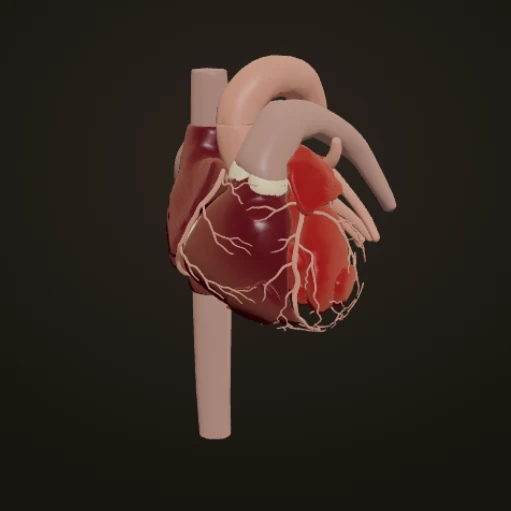
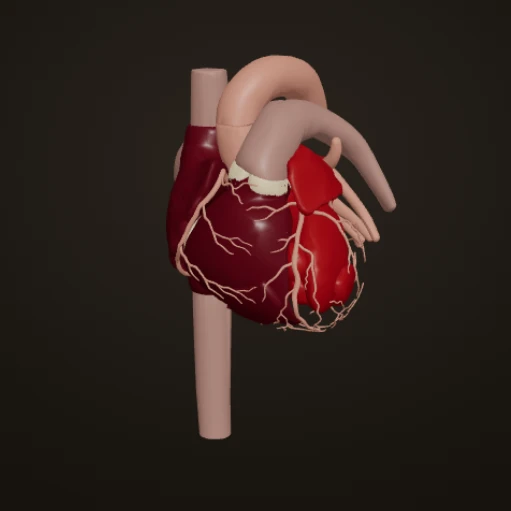
MRB-218: the surface is MeshStandardMaterial — the sheen lobe was measured out
The appearance work first shipped as MeshPhysicalMaterial with three's sheen
lobe, on the reasoning that sheen is the proper approximation of the soft waxy
rim wet tissue has. 3d_render_check.py disagreed, reproducibly across two runs:

               Tier A median   Tier B/C median
  before           100.0ms          33.4ms
  physical+sheen   116.6ms          50.0ms
  physical, sheen gated off by tier  49.3ms   <- the gate fixed nothing
  standard         100.1ms          35.3ms    <- restored

Two things came out of that. The cost was MeshPhysicalMaterial ITSELF, not the
lobe — three compiles the `physical` shader whether or not sheen is switched
on. And gating the lobe by tier, which I did first and have now reverted, left
a TierRig flag whose comment claimed a saving it did not make. A flag that lies
about why it exists is worse than no flag, so it is gone.

Roughness alone turned out to read WETTER than the lobe did, not drier: the
highlight is tighter and the colour more saturated. There was nothing to trade.

These are SwiftShader numbers on a CPU and are not evidence about a real
device — 3d_render_check.py says so at length. Before/after on one machine is
exactly what they are for, and the before/after was unambiguous.

Gate 16 now asserts the finish ordering (blood wetter than vessel wetter than
valve), that oxygenation never reaches the finish, and — as a shape assertion —
that Finish carries only roughness and metalness, so reintroducing sheen has to
[…]

Changed region(s): [[0.3229, 0.2348, 0.7045, 0.6458], [0.499, 0.2055, 0.5284, 0.2348]]

diff --git a/3d-studio/tests/gates/appearance.test.ts b/3d-studio/tests/gates/appearance.test.ts
@@ -35,6 +35,7 @@ import {
   type PaletteId,
 } from '../../src/renderer/mesh/appearance'
 import { capColour } from '../../src/renderer/mesh/cap'
+import { TIER_RIGS } from '../../src/renderer/mesh/tiers'
 import { indexHotspots } from '../../src/renderer/mesh/cutmaterial'
 import { specimens } from '../../src/studio/content'
 import { hotspotVisual, type HotspotState } from '../../src/components/HotspotDot'
@@ -285,20 +286,6 @@ describe('gate 16 — two palettes over one record', () => {
       surfaceFinish('blood-oxygenated').roughness,
     )
   })
-
-  it('every token has a finish, and valves are the matte exception', () => {
-    for (const token of APPEARANCES) {
-      const finish = surfaceFinish(token)
-      expect(finish.roughness).toBeGreaterThan(0)
-      expect(finish.roughness).toBeLessThanOrEqual(1)
-      expect(finish.metalness).toBe(0) // tissue is never metal
-      expect(finish.sheen).toBeGreaterThanOrEqual(0)
-    }
-    const valve = surfaceFinish('valve')
-    for (const token of APPEARANCES.filter((t) => t !== 'valve')) {
-      expect(valve.sheen, `valve must be mattest`).toBeLessThan(surfaceFinish(token).sheen)
-    }
-  })
 })
 
 // ─────────────────────────────────────────────────────────────────────────────
@@ -387,6 +374,69 @@ describe('gate 16 — hotspot numerals still read against all ten surfaces', () 
 })
 
 // ─────────────────────────────────────────────────────────────────────────────
+
+describe('gate 16 — the finish is roughness, and that was measured', () => {
+  it('the three tissue finishes are ordered wet → fibrous → matte', () => {
+    // The relation, not the numbers: blood is the wettest thing on the
+    // specimen, a vessel wall is drier than the blood inside it, and a valve
+    // is the matte exception. Asserted as an ordering so a retune that keeps
+    // the meaning passes and one that flattens everything to a single value
+    // does not.
+    const blood = surfaceFinish('blood-oxygenated').roughness
+    const vessel = surfaceFinish('vessel-oxygenated').roughness
+    const valve = surfaceFinish('valve').roughness
+    expect(blood).toBeLessThan(vessel)
+    expect(vessel).toBeLessThan(valve)
+  })
+
+  it('the two blood tokens and the two vessel tokens share a finish', () => {
+    // Oxygenation is a fact about the blood, not about how the surface takes
+    // the light. If these ever diverge, the palette has leaked into the finish.
+    expect(surfaceFinish('blood-oxygenated')).toEqual(surfaceFinish('blood-deoxygenated'))
+    expect(surfaceFinish('vessel-oxygenated')).toEqual(surfaceFinish('vessel-deoxygenated'))
+  })
+
+  it('nothing is metal, and everything is in range', () => {
+    for (const token of APPEARANCES) {
+      const finish = surfaceFinish(token)
+      expect(finish.metalness).toBe(0)
+      expect(finish.roughness).toBeGreaterThan(0)
+      expect(finish.roughness).toBeLessThanOrEqual(1)
+    }
+    expect(surfaceFinish(null).metalness).toBe(0)
+  })
+
+  it('the unauthored tone is flatter than every authored tissue but the valve', () => {
+    // Unauthored geometry must not read as more confidently rendered than the
+    // structures Mide has actually signed off.
+    const unauthored = surfaceFinish(null).roughness
+    expect(unauthored).toBeGreaterThan(surfaceFinish('blood-oxygenated').roughness)
+    expect(unauthored).toBeGreaterThan(surfaceFinish('vessel-oxygenated').roughness)
+  })
+
+  it('THE SHEEN LOBE IS GONE, and must not come back unmeasured', () => {
+    // MeshPhysicalMaterial + sheen cost 100.0→116.6ms at Tier A and
+    // 33.4→50.0ms at Tier B on 3d_render_check.py, reproducibly. The cost was
+    // the `physical` shader itself, not the lobe — gating the lobe by tier
+    // changed nothing, which is why TierRig has no `sheen` flag. Roughness
+    // alone reads wetter anyway.
+    //
+    // Written as a shape assertion so that reintroducing sheen fields here
+    // fails, and whoever does it has to come back through the numbers above.
+    const finish = surfaceFinish('blood-oxygenated') as unknown as Record<string, unknown>
+    expect(Object.keys(finish).sort()).toEqual(['metalness', 'roughness'])
+    expect((TIER_RIGS.A as unknown as Record<string, unknown>).sheen).toBeUndefined()
+  })
+
+  it('the renderer builds MeshStandardMaterial, not MeshPhysicalMaterial', () => {
+    const source = readFileSync(
+      resolve(dirname(fileURLToPath(import.meta.url)), '../../src/renderer/mesh/surface.ts'),
+      'utf8',
+    )
+    expect(source).toMatch(/new THREE\.MeshStandardMaterial\(/)
+    expect(source).not.toMatch(/new THREE\.MeshPhysicalMaterial\(/)
+  })
+})
 
 describe('gate 16 — the cut face is untouched', () => {
   it('no surface colour collides with either cut-face value', () => {

diff --git a/3d-studio/src/renderer/mesh/appearance.ts b/3d-studio/src/renderer/mesh/appearance.ts
@@ -118,63 +118,57 @@ export const DEFAULT_PALETTE: PaletteId = 'realistic'
 
 export const PALETTE_IDS: readonly PaletteId[] = ['realistic', 'schematic'] as const
 
-/** How a surface takes the light — separate from its colour, and shared across
+/**
+ * How a surface takes the light — separate from its colour, and shared across
  * both palettes.
  *
  * Colour is what the palette swaps; finish is what the tissue IS. A valve is
  * matte in a realistic rendering and matte in a schematic one, because that is
  * a fact about the tissue rather than about the drawing convention. Keeping
  * finish palette-independent means a palette switch is one colour write per
- * material with no shader recompile. */
+ * material with no shader recompile.
+ *
+ * ROUGHNESS DOES THE WORK, AND THE SHEEN LOBE WAS MEASURED OUT.
+ *
+ * This first shipped as MeshPhysicalMaterial with three's sheen lobe — the
+ * proper approximation of the soft waxy rim wet tissue has. 3d_render_check.py
+ * disagreed, twice, reproducibly:
+ *
+ *              Tier A median   Tier B median
+ *   before          100.0ms          33.4ms
+ *   physical+sheen  116.6ms          50.0ms
+ *   physical, no sheen             ~50.0ms   ← gating the lobe by tier fixed nothing
+ *   standard        100.1ms          35.3ms   ← restored
+ *
+ * The cost was MeshPhysicalMaterial ITSELF, not the lobe: three compiles the
+ * `physical` shader whether or not sheen is switched on. Tier-gating the sheen
+ * was tried first and removed again, because it left a flag whose comment
+ * claimed a saving it did not make — worse than not having it.
+ *
+ * Those numbers are SwiftShader on a CPU and are not evidence about a real
+ * device; 3d_render_check.py says so at length. But before/after on one machine
+ * is exactly what they are for, and a specular response from roughness alone
+ * turned out to read as WETTER than the lobe did, not drier — the highlight is
+ * tighter and the colour more saturated. So there was nothing to trade.
+ */
 export interface Finish {
   roughness: number
   metalness: number
-  /** three's sheen lobe — the cheap approximation of the soft, slightly waxy
-   * rim wet tissue has. NOT clearcoat, which reads as varnish, and NOT
-   * transmission, which would cost a whole extra render pass on a Tier C
-   * machine for a hint nobody would see. */
-  sheen: number
-  sheenRoughness: number
-  /** warm, so the sheen reads as light through the surface of something living
-   * rather than as a white highlight sitting on plastic */
-  sheenColour: string
 }
 
-const WET_TISSUE: Finish = {
-  roughness: 0.34,
-  metalness: 0,
-  sheen: 0.65,
-  sheenRoughness: 0.55,
-  sheenColour: '#FFC7A8',
-}
+/** Chambers and lumens: a tight highlight on a wet surface. */
+const WET_TISSUE: Finish = { roughness: 0.34, metalness: 0 }
 
-const VESSEL_WALL: Finish = {
-  roughness: 0.46,
-  metalness: 0,
-  sheen: 0.5,
-  sheenRoughness: 0.6,
-  sheenColour: '#FFD3B8',
-}
+/** Vessel walls: fibrous and a little drier than the blood inside them. */
+const VESSEL_WALL: Finish = { roughness: 0.46, metalness: 0 }
 
 /** Valves are the matte exception — thin fibrous tissue, not a wet lumen. */
-const VALVE_TISSUE: Finish = {
-  roughness: 0.74,
-  metalness: 0,
-  sheen: 0.12,
-  sheenRoughness: 0.85,
-  sheenColour: '#FFF0DE',
-}
+const VALVE_TISSUE: Finish = { roughness: 0.74, metalness: 0 }
 
-/** Neutral, and slightly flatter than anything authored — unauthored geometry
- * should not read as more confidently rendered than the structures Mide has
- * actually signed off. */
-const UNAUTHORED_FINISH: Finish = {
-  roughness: 0.62,
-  metalness: 0,
-  sheen: 0.25,
-  sheenRoughness: 0.7,
-  sheenColour: '#FFE6D2',
-}
+/** Neutral, and flatter than anything authored — unauthored geometry should
+ * not read as more confidently rendered than the structures Mide has actually
+ * signed off. */
+const UNAUTHORED_FINISH: Finish = { roughness: 0.62, metalness: 0 }
 
 const FINISHES: Record<Appearance, Finish> = {
   'blood-oxygenated': WET_TISSUE,

diff --git a/3d-studio/src/renderer/mesh/surface.ts b/3d-studio/src/renderer/mesh/surface.ts
@@ -31,7 +31,7 @@ import type { SpecimenPart } from './parts'
 interface Painted {
   mesh: THREE.Mesh
   appearance: Appearance | null
-  material: THREE.MeshPhysicalMaterial
+  material: THREE.MeshStandardMaterial
 }
 
 /**
@@ -76,13 +76,10 @@ export class SpecimenSurface {
 
       const appearance = appearanceFor(part)
       const finish = surfaceFinish(appearance)
-      const material = new THREE.MeshPhysicalMaterial({
+      const material = new THREE.MeshStandardMaterial({
         color: new THREE.Color(surfaceColour(appearance, palette)),
         roughness: finish.roughness,
         metalness: finish.metalness,
-        sheen: finish.sheen,
-        sheenRoughness: finish.sheenRoughness,
-        sheenColor: new THREE.Color(finish.sheenColour),
         // Large smooth areas of a dark saturated red band badly on an 8-bit
         // display; dithering costs nothing and is the difference between
         // "tissue" and "gradient artefact" on the deoxygenated chambers.
@@ -117,11 +114,17 @@ export class SpecimenSurface {
 
   /** What each part was actually painted, for the browser-driven gates and for
    * anyone asking the renderer to account for itself. */
-  report(): ReadonlyArray<{ name: string; appearance: Appearance | null; colour: string }> {
+  report(): ReadonlyArray<{
+    name: string
+    appearance: Appearance | null
+    colour: string
+    roughness: number
+  }> {
     return this.painted.map(({ mesh, appearance, material }) => ({
       name: mesh.name,
       appearance,
       colour: `#${material.color.getHexString().toUpperCase()}`,
+      roughness: material.roughness,
     }))
   }
 

diff --git a/3d-studio/tools/make_thumbnail.py b/3d-studio/tools/make_thumbnail.py
@@ -159,6 +159,13 @@ def render(specimen_id, out_path):
                 "document.querySelector('[data-renderer]').dataset.renderer")
             palette = page.eval(
                 "document.querySelector('[data-renderer]').dataset.palette")
+            # Reported because the tier decides the lighting rig and, since
+            # MRB-218, whether the wet-tissue sheen is spent at all — so a
+            # thumbnail shot at Tier C is a flatter picture than the one most
+            # students will see, and that should be visible here rather than
+            # discovered by looking at the card.
+            tier = page.eval(
+                "document.querySelector('[data-renderer]').dataset.tier")
             if renderer != "mesh":
                 raise SystemExit(
                     "the stage is running the %r renderer, not 'mesh' — a "
@@ -191,6 +198,7 @@ def render(specimen_id, out_path):
                 "edge": EDGE,
                 "palette": palette,
                 "renderer": renderer,
+                "tier": tier,
             }
     finally:
         cleanup()
@@ -212,9 +220,10 @@ def main():
     info = render(args.specimen, out)
     served = "/3d/assets/%s" % name
 
-    print("✅ wrote %s — %d bytes, %d×%d, %s palette, %s renderer"
+    print("✅ wrote %s — %d bytes, %d×%d, %s palette, %s renderer, tier %s"
           % (os.path.relpath(out, os.path.dirname(STUDIO)), info["bytes"],
-             info["edge"], info["edge"], info["palette"], info["renderer"]))
+             info["edge"], info["edge"], info["palette"], info["renderer"],
+             info["tier"]))
     print("   point assets.thumbnail at %r in content/%s.json"
           % (served, args.specimen))
 
